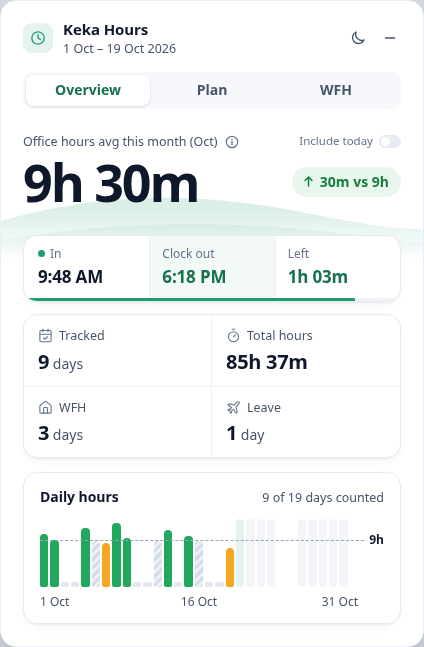
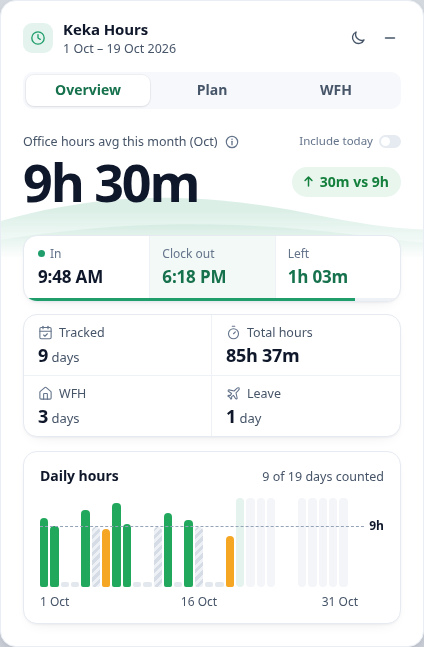
Overview: taller daily-hours chart, more compact stats card
The four stats are tighter (less padding, 18px numbers), and their room goes
to the chart: bars at least 89px tall (was 68px). The card keeps its height.

diff --git a/src/content/ui.js b/src/content/ui.js
@@ -249,13 +249,13 @@ svg { width: 100%; height: 100%; display: block; }
 .ov-card { position: relative; border: 1px solid var(--card-line); border-radius: 14px; background: var(--card); box-shadow: var(--card-shadow); }
 /* Tracked | Total hours over WFH | Leave: one card, four cells. */
 .ov-grid { display: grid; grid-template-columns: repeat(2, minmax(0, 1fr)); }
-.ov-cell { min-width: 0; padding: 12px 14px; }
+.ov-cell { min-width: 0; padding: 9px 14px; }
 .ov-cell:nth-child(odd) { border-right: 1px solid var(--cell-line); }
 .ov-cell:nth-child(-n+2) { border-bottom: 1px solid var(--cell-line); }
 .ov-k { display: flex; align-items: center; gap: 6px; font-size: 12.5px; color: var(--muted); white-space: nowrap; overflow: hidden; text-overflow: ellipsis; }
 .ov-k svg { flex: none; width: 15px; height: 15px; color: var(--subtle); }
-.ov-v { margin-top: 4px; font-size: 20px; font-weight: 700; letter-spacing: -.015em; line-height: 1.25; white-space: nowrap; }
-.ov-v small { font-size: 14px; font-weight: 500; letter-spacing: 0; color: var(--muted); }
+.ov-v { margin-top: 2px; font-size: 18px; font-weight: 700; letter-spacing: -.015em; line-height: 1.25; white-space: nowrap; }
+.ov-v small { font-size: 13px; font-weight: 500; letter-spacing: 0; color: var(--muted); }
 /* Today: In | Clock out | Left, with progress along the bottom edge. */
 .ov-day { position: relative; overflow: hidden; display: grid; grid-template-columns: repeat(3, minmax(0, 1fr)); border: 1px solid var(--card-line); border-radius: 14px; background: var(--card); box-shadow: var(--card-shadow); --tone: var(--brand); --tone-text: var(--brand-text); --tone-mid: color-mix(in srgb, var(--brand) 6%, var(--card)); }
 .ov-day.idle { --tone: var(--stub-hover); --tone-text: var(--subtle); --tone-mid: var(--card); }
@@ -287,7 +287,7 @@ svg { width: 100%; height: 100%; display: block; }
 .spark-head { display: flex; align-items: baseline; justify-content: space-between; gap: 12px; font-size: 12.5px; color: var(--muted); }
 .ov-empty { flex: 1; display: grid; place-items: center; min-height: 68px; font-size: 13px; color: var(--subtle); }
 .spark-head b { font-size: 14px; font-weight: 650; letter-spacing: -.005em; color: var(--text); }
-.spark { position: relative; flex: 1; min-height: 68px; margin-top: 12px; padding-right: 26px; display: flex; align-items: flex-end; gap: 3px; }
+.spark { position: relative; flex: 1; min-height: 89px; margin-top: 12px; padding-right: 26px; display: flex; align-items: flex-end; gap: 3px; }
 .spark .bar { flex: 1 1 0; max-width: 20px; min-height: 3px; border-radius: 4px 4px 2px 2px; background: var(--bar); transition: background .14s ease; }
 .spark .bar.warn { background: var(--bar-warn); }
 .spark .bar:hover { background: var(--bar-hover); }
@@ -557,7 +557,7 @@ button.cal-cell:hover { transform: translateY(-1px); border-color: var(--brand);
 @media (max-width: 480px) {
   .hero-value { font-size: 38px; } .ov-value { font-size: 44px; } .cal { --cell-h: 44px; } .cal.six { --cell-h: 38px; }
   .head { padding: 16px 14px 12px 16px; } .content { padding: 2px 16px 16px; } .ov-wave { left: -16px; right: -16px; }
-  .ov-cell { padding: 11px 12px; } .ov-v { font-size: 18.5px; } .tabs { margin: 0 16px 12px; }
+  .ov-cell { padding: 8px 12px; } .ov-v { font-size: 17px; } .tabs { margin: 0 16px 12px; }
 }
 `;
 
